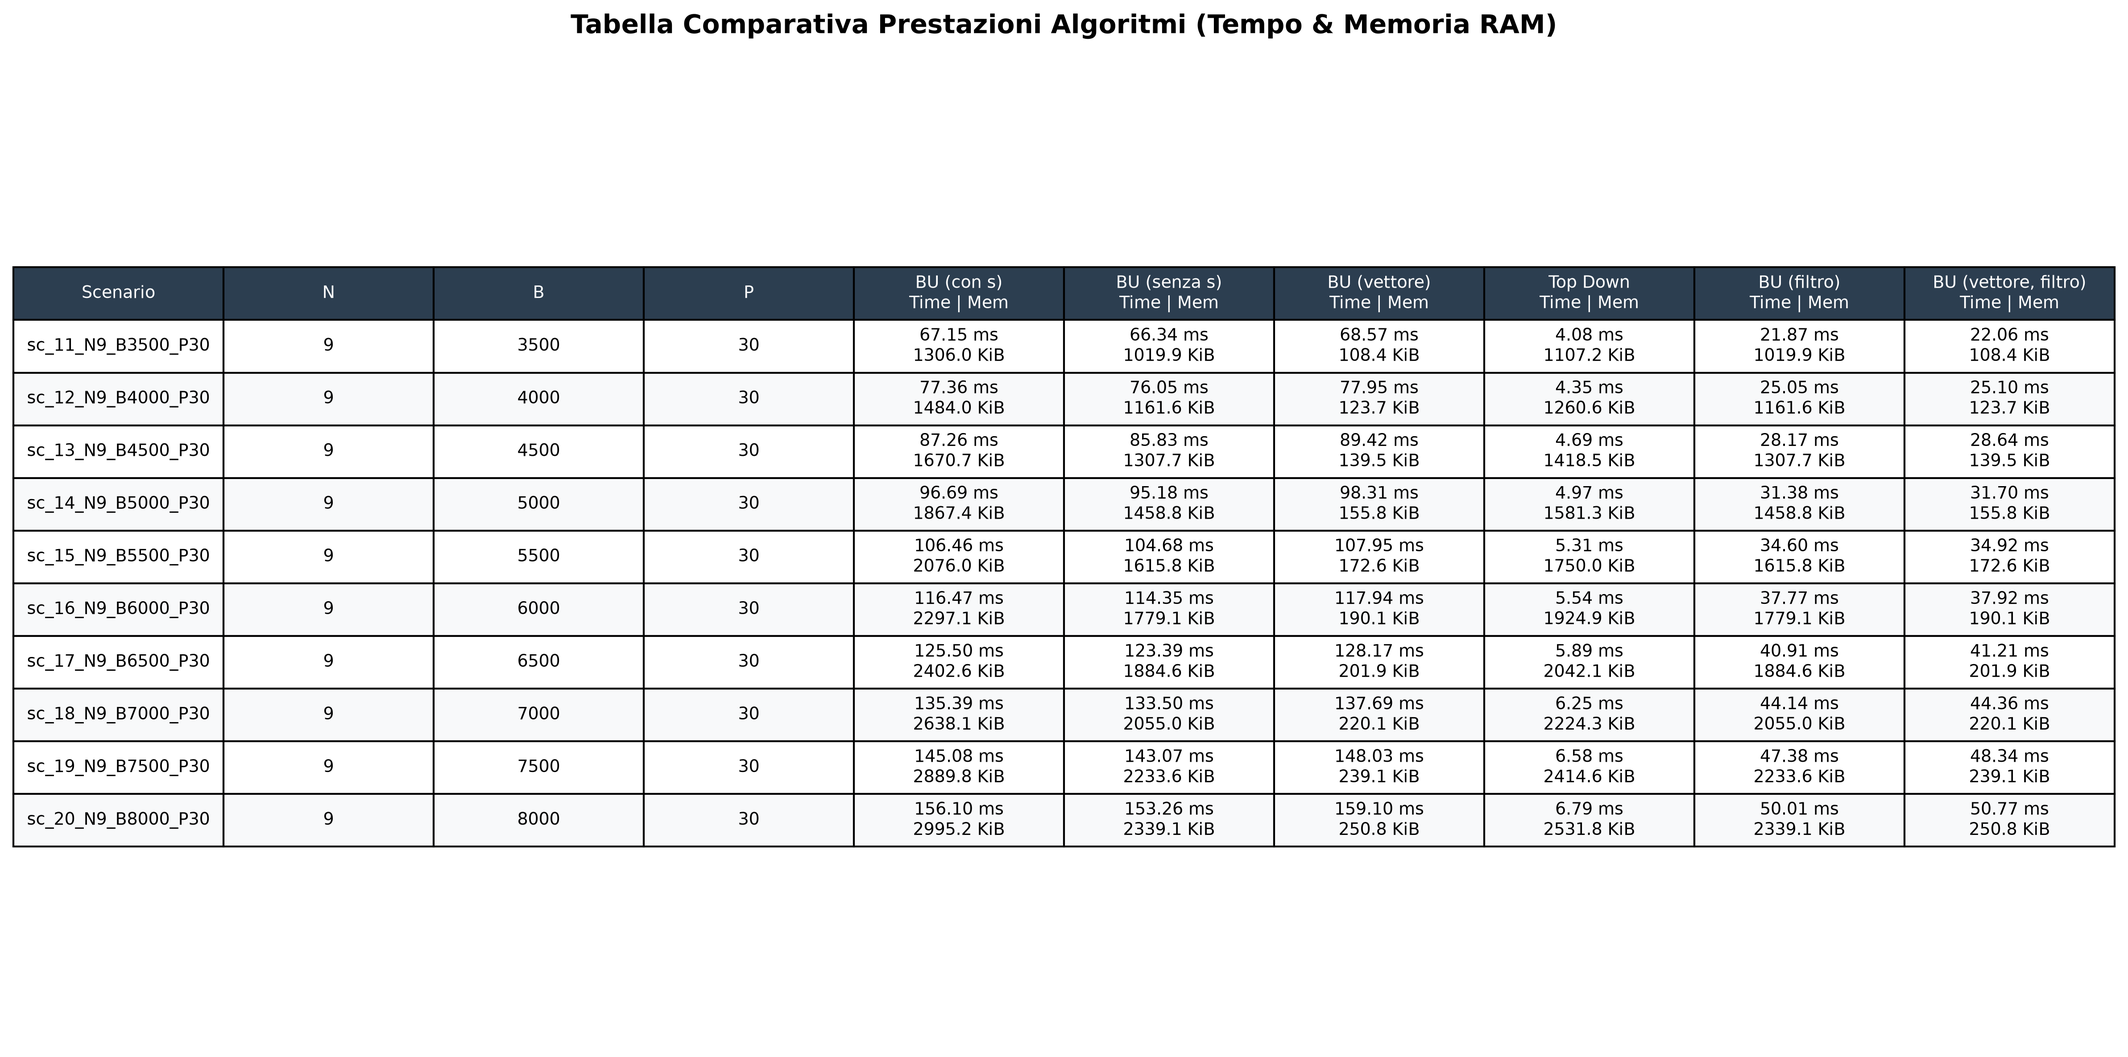
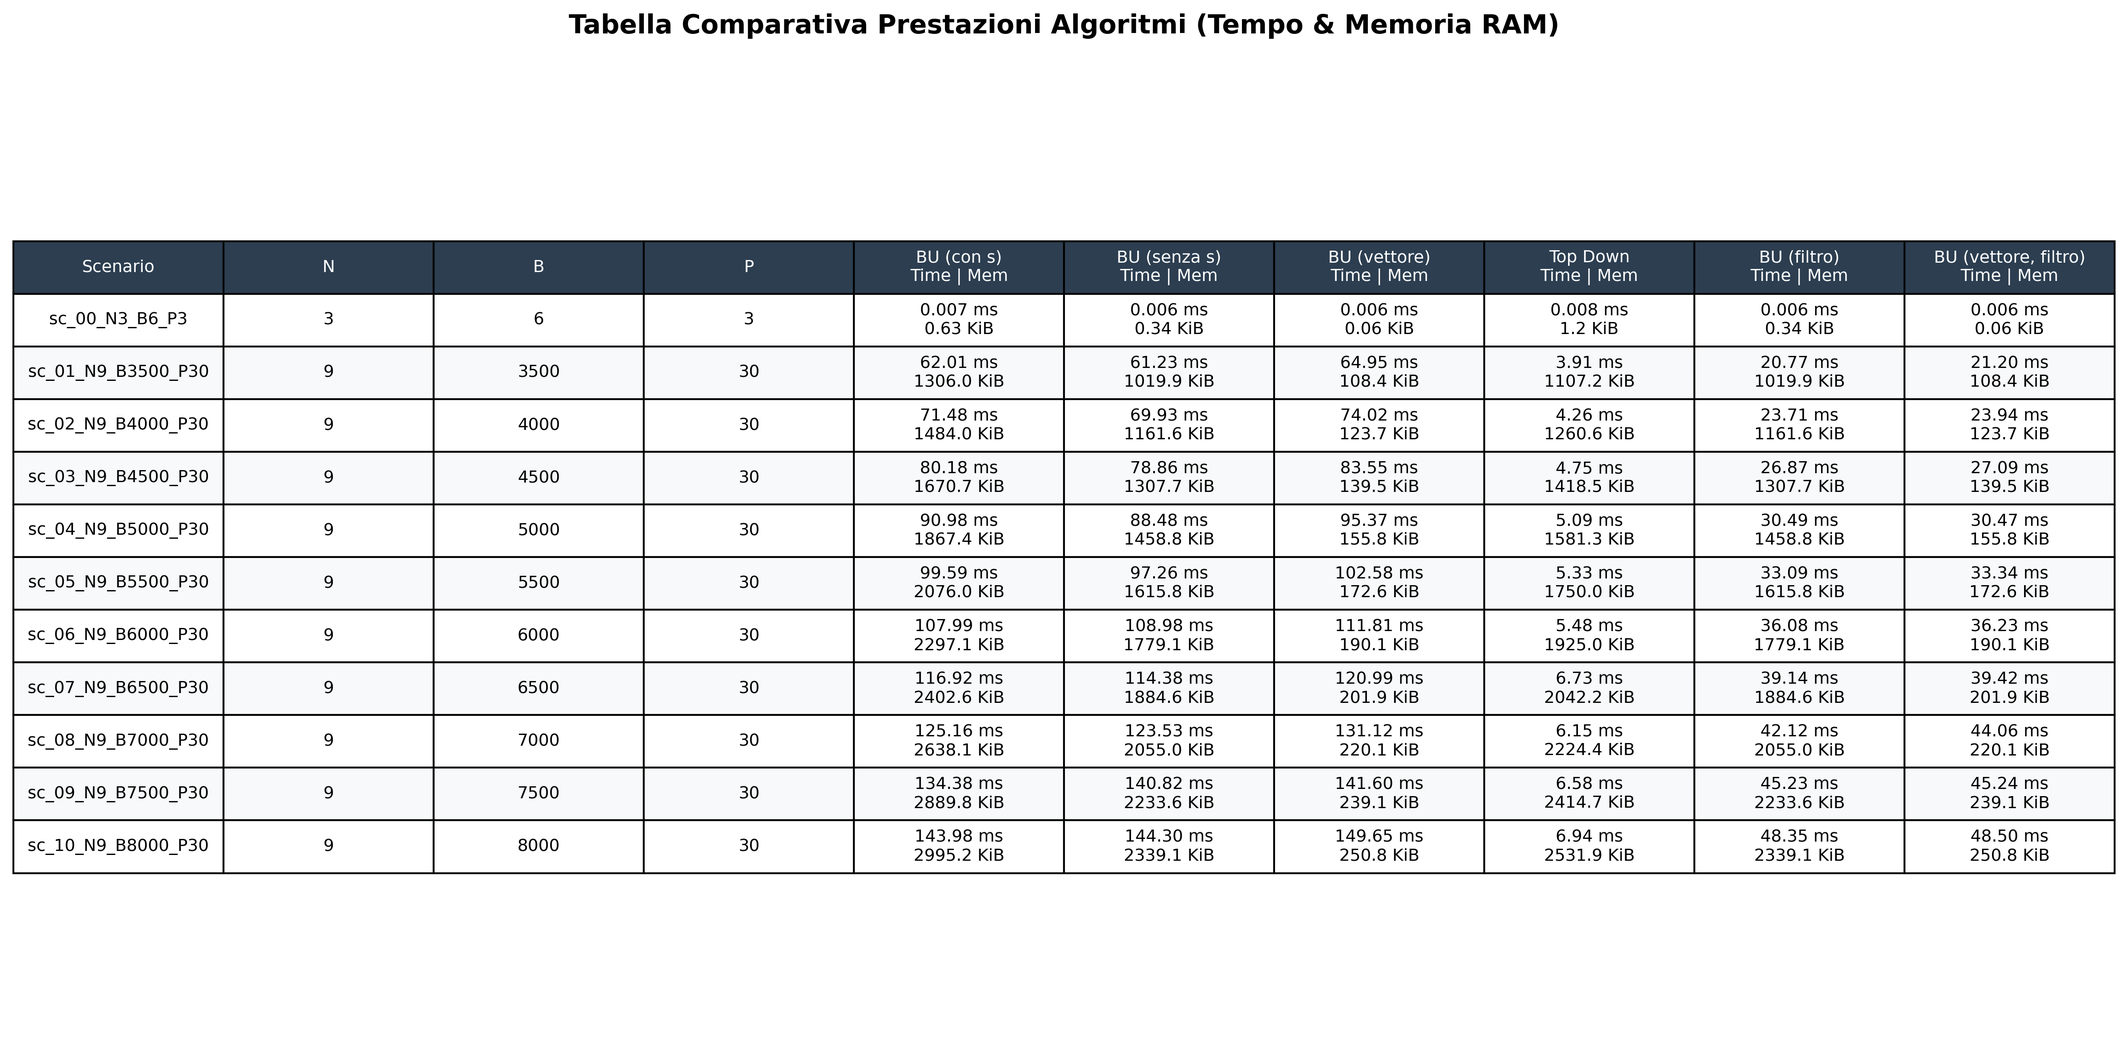
feat(report): allineamento scenari demo, grafici con etichette (a)/(b) e analisi approfondita capitolo 3

Changed region(s): [[0.0, 0.2186, 0.9996, 0.8118], [0.5935, 0.0, 0.7497, 0.0312], [0.2811, 0.0, 0.4061, 0.0312]]

diff --git a/report/sections/03_compito3.tex b/report/sections/03_compito3.tex
@@ -25,9 +25,9 @@ Ciascun atleta $k \in \{1, \dots, P\}$ all'interno del ruolo $i \in \{1, \dots, 
 dove $\mathit{cost}_{i, k} \in \mathbb{N}^+$ rappresenta il compenso contrattuale lordo (con valori compresi tra poche centinaia di migliaia di dollari fino a decine di milioni di dollari), mentre $v_{i, k} = \text{WAR} \ge 0$ rappresenta il contributo marginale del giocatore alle vittorie stagionali attese della squadra rispetto al livello di rimpiazzo.
 
 \subsubsection{Generazione e Parametrizzazione degli Scenari}
-Per analizzare sistematicamente la crescita del tempo di esecuzione e del consumo di memoria primaria, sono stati generati 10 scenari incrementali di test, denominati da \texttt{scenario\_11\_N9\_B3500\_P30} a \texttt{scenario\_20\_N9\_B8000\_P30}.
+Per analizzare sistematicamente la crescita del tempo di esecuzione e del consumo di memoria primaria, sono stati generati 10 scenari incrementali di test, denominati da \texttt{scenario\_01} a \texttt{scenario\_10} (con suffisso \texttt{\_N9\_BXXXX\_P30}). A questi si aggiunge un'istanza minimale di verifica denominata \texttt{scenario\_00\_N3\_B6\_P3} ($N=3$, $B=6$, $P=3$), concepita specificamente per consentire una dimostrazione interattiva e un'ispezione immediata delle matrici prodotte.
 
-Nella progettazione della campagna sperimentale si è scelto di mantenere fisso il numero di atleti disponibili (confermati a $N = 9$ e $P = 30$ per tutte le istanze) e di far variare esclusivamente il budget nominale $X$. Il budget parte da un valore base di $\$350\,000\,000$ nello scenario 11 e cresce con incremento lineare e uniforme di $\$50\,000\,000$ per ciascuno scenario successivo, attestandosi infine a $\$800\,000\,000$ nello scenario 20.
+Nella progettazione della campagna sperimentale principale si è scelto di mantenere fisso il numero di atleti disponibili (confermati a $N = 9$ e $P = 30$ per tutte le istanze) e di far variare esclusivamente il budget nominale $X$. Il budget parte da un valore base di $\$350\,000\,000$ nello scenario 01 e cresce con incremento lineare e uniforme di $\$50\,000\,000$ per ciascuno scenario successivo, attestandosi infine a $\$800\,000\,000$ nello scenario 10.
 
 Di conseguenza, il budget discreto associato varia progressivamente nell'intervallo:
 \begin{equation}
@@ -50,16 +50,16 @@ In Tabella~\ref{tab:scenarios_overview} vengono dettagliati i parametri operativ
 		\toprule
 		\textbf{Identificativo Scenario} & $N$ & $P$ & \textbf{Budget Nominale ($X$)} & $B$ & \textbf{Dimensione ($N \cdot B \cdot P$)} \\
 		\midrule
-		\texttt{scenario\_11\_N9\_B3500\_P30} & 9 & 30 & $\$350\,000\,000$ & 3500 & $945\,000$ \\
-		\texttt{scenario\_12\_N9\_B4000\_P30} & 9 & 30 & $\$400\,000\,000$ & 4000 & $1\,080\,000$ \\
-		\texttt{scenario\_13\_N9\_B4500\_P30} & 9 & 30 & $\$450\,000\,000$ & 4500 & $1\,215\,000$ \\
-		\texttt{scenario\_14\_N9\_B5000\_P30} & 9 & 30 & $\$500\,000\,000$ & 5000 & $1\,350\,000$ \\
-		\texttt{scenario\_15\_N9\_B5500\_P30} & 9 & 30 & $\$550\,000\,000$ & 5500 & $1\,485\,000$ \\
-		\texttt{scenario\_16\_N9\_B6000\_P30} & 9 & 30 & $\$600\,000\,000$ & 6000 & $1\,620\,000$ \\
-		\texttt{scenario\_17\_N9\_B6500\_P30} & 9 & 30 & $\$650\,000\,000$ & 6500 & $1\,755\,000$ \\
-		\texttt{scenario\_18\_N9\_B7000\_P30} & 9 & 30 & $\$700\,000\,000$ & 7000 & $1\,890\,000$ \\
-		\texttt{scenario\_19\_N9\_B7500\_P30} & 9 & 30 & $\$750\,000\,000$ & 7500 & $2\,025\,000$ \\
-		\texttt{scenario\_20\_N9\_B8000\_P30} & 9 & 30 & $\$800\,000\,000$ & 8000 & $2\,160\,000$ \\
+		\texttt{scenario\_01\_N9\_B3500\_P30} & 9 & 30 & $\$350\,000\,000$ & 3500 & $945\,000$ \\
+		\texttt{scenario\_02\_N9\_B4000\_P30} & 9 & 30 & $\$400\,000\,000$ & 4000 & $1\,080\,000$ \\
+		\texttt{scenario\_03\_N9\_B4500\_P30} & 9 & 30 & $\$450\,000\,000$ & 4500 & $1\,215\,000$ \\
+		\texttt{scenario\_04\_N9\_B5000\_P30} & 9 & 30 & $\$500\,000\,000$ & 5000 & $1\,350\,000$ \\
+		\texttt{scenario\_05\_N9\_B5500\_P30} & 9 & 30 & $\$550\,000\,000$ & 5500 & $1\,485\,000$ \\
+		\texttt{scenario\_06\_N9\_B6000\_P30} & 9 & 30 & $\$600\,000\,000$ & 6000 & $1\,620\,000$ \\
+		\texttt{scenario\_07\_N9\_B6500\_P30} & 9 & 30 & $\$650\,000\,000$ & 6500 & $1\,755\,000$ \\
+		\texttt{scenario\_08\_N9\_B7000\_P30} & 9 & 30 & $\$700\,000\,000$ & 7000 & $1\,890\,000$ \\
+		\texttt{scenario\_09\_N9\_B7500\_P30} & 9 & 30 & $\$750\,000\,000$ & 7500 & $2\,025\,000$ \\
+		\texttt{scenario\_10\_N9\_B8000\_P30} & 9 & 30 & $\$800\,000\,000$ & 8000 & $2\,160\,000$ \\
 		\bottomrule
 	\end{tabular}
 \end{table}
@@ -221,3 +221,118 @@ def filter_players(players, cost_unit=100000, total_budget=None):
 \end{lstlisting}
 
 Il costo computazionale preliminare è $O(N \cdot P \log P)$, trascurabile rispetto all'esecuzione della programmazione dinamica. L'effetto è quello di ridurre il numero effettivo di candidati da $P$ a un sottoinsieme $P' \ll P$, velocizzando proporzionalmente il ciclo interno di tutte le varianti bottom-up che non necessitano della corrispondenza biunivoca degli indici nella matrice $s$.
+
+\subsection{Confronto delle Prestazioni e Risultati Empirici}
+La sperimentazione è stata condotta eseguendo le sei varianti algoritmiche sui 10 scenari a budget crescente ($B \in [3500, 8000]$), misurando per ciascuna configurazione il tempo minimo di calcolo su $K = 15$ iterazioni e il picco di memoria heap tracciato.
+
+\subsubsection{Tempi di Calcolo}
+I tempi di calcolo misurati per ciascun algoritmo sui 10 scenari sono riassunti nella Tabella~\ref{tab:execution_times} e visualizzati graficamente nella Figura~\ref{fig:optimal_value_plots}(a).
+
+\begin{table}[!htbp]
+	\centering
+	\footnotesize
+	\setlength{\tabcolsep}{4.5pt}
+	\caption{Tempi di esecuzione (in millisecondi, ms) degli algoritmi sui 10 scenari di test.}
+	\label{tab:execution_times}
+	\begin{tabular}{lccccccc}
+		\toprule
+		\textbf{Scenario} & $B$ & \textbf{BU (con $s$)} & \textbf{BU (senza $s$)} & \textbf{BU (vett.)} & \textbf{Top-Down} & \textbf{BU (filtr.)} & \textbf{BU (vett.+filtr.)} \\
+		\midrule
+		\texttt{sc\_01} & 3500 & 62.01 & 61.23 & 64.95 & 3.91 & 20.77 & 21.20 \\
+		\texttt{sc\_02} & 4000 & 71.48 & 69.93 & 74.02 & 4.26 & 23.71 & 23.94 \\
+		\texttt{sc\_03} & 4500 & 80.18 & 78.86 & 83.55 & 4.75 & 26.87 & 27.09 \\
+		\texttt{sc\_04} & 5000 & 90.98 & 88.48 & 95.37 & 5.09 & 30.49 & 30.47 \\
+		\texttt{sc\_05} & 5500 & 99.59 & 97.26 & 102.58 & 5.33 & 33.09 & 33.34 \\
+		\texttt{sc\_06} & 6000 & 107.99 & 108.98 & 111.81 & 5.48 & 36.08 & 36.23 \\
+		\texttt{sc\_07} & 6500 & 116.92 & 114.38 & 120.99 & 6.73 & 39.14 & 39.42 \\
+		\texttt{sc\_08} & 7000 & 125.16 & 123.53 & 131.12 & 6.15 & 42.12 & 44.06 \\
+		\texttt{sc\_09} & 7500 & 134.38 & 140.82 & 141.60 & 6.58 & 45.23 & 45.24 \\
+		\texttt{sc\_10} & 8000 & 143.98 & 144.30 & 149.65 & 6.94 & 48.35 & 48.50 \\
+		\bottomrule
+	\end{tabular}
+\end{table}
+
+\begin{figure}[!htbp]
+	\centering
+	\includegraphics[width=\textwidth]{plot_optimal_value.png}
+	\caption{Confronto delle prestazioni degli algoritmi: (a) tempo di calcolo rispetto alla dimensione dell'istanza ($N \cdot B \cdot P$); (b) picco di memoria rispetto alla dimensione della tabella ($N \cdot B$).}
+	\label{fig:optimal_value_plots}
+\end{figure}
+
+All'aumentare del budget discreto $B$, i tempi di esecuzione del Bottom-Up canonico e delle sue varianti principali mostrano una crescita chiaramente lineare. Poiché il numero di ruoli $N = 9$ e il numero di candidati $P = 30$ sono mantenuti costanti in tutti gli scenari, la dimensione complessiva dell'istanza scala in modo direttamente proporzionale a $B$. Ad esempio, passando dallo scenario 01 ($B = 3500$) allo scenario 10 ($B = 8000$), il budget aumenta di circa $2.29$ volte e il tempo del Bottom-Up su matrice passa da $61.23\text{ ms}$ a $144.30\text{ ms}$ (un incremento di $2.36$ volte), confermando con precisione la complessità teorica $\Theta(N \cdot B \cdot P)$.
+
+Un aspetto centrale riguarda il confronto tra il Bottom-Up su matrice e la variante salvaspazio a vettore singolo 1D. Sebbene quest'ultima operi su una sola riga anziché sull'intera tabella, il numero totale di controlli e di aggiornamenti interni rimane esattamente lo stesso. Per verificare sperimentalmente questa equivalenza è stata calcolata la discrepanza percentuale:
+\begin{equation}
+	\Delta_{\text{time}}\% = \frac{T_{\text{vettore}} - T_{\text{matrice}}}{T_{\text{matrice}}} \times 100
+\end{equation}
+Su tutti i 10 scenari analizzati, la differenza media tra i tempi delle due versioni è di appena il $+4.99\%$ (variando tra un minimo dello $0.55\%$ nello scenario 09 e un massimo del $7.79\%$ nello scenario 04). Applicando il pre-filtraggio di Pareto a entrambi gli algoritmi, la differenza media scende ulteriormente all'$1.06\%$. Questo scarto minimo, nell'ordine di pochi millisecondi, è dovuto unicamente al leggero costo del controllo condizionale nel ciclo decrescente del vettore rispetto alla copia di riga nativa tramite slicing (\texttt{m[i][:] = m[i-1][:]}) di Python. I dati confermano quindi che la variante a vettore singolo non altera la complessità temporale.
+
+L'applicazione del filtro di Pareto permette invece di ridurre notevolmente i tempi di calcolo. Eliminando a priori i candidati dominati all'interno di ciascun ruolo, il numero effettivo di giocatori da valutare scende in media da $P = 30$ a circa $P' \approx 10$. Di conseguenza, il tempo di esecuzione si riduce di circa il $66\%$ su tutti gli scenari, passando da $61.23\text{ ms}$ a $20.77\text{ ms}$ nello scenario 01 e da $144.30\text{ ms}$ a $48.35\text{ ms}$ nello scenario 10.
+
+L'algoritmo Top-Down ricorsivo con memoizzazione risulta il più rapido nei test, con tempi compresi tra $3.91\text{ ms}$ e $6.94\text{ ms}$. Questo comportamento è dovuto alla natura discreta dei costi dei contratti: scendendo a ritroso a partire dallo stato finale $(N, B)$, gran parte delle celle $(i, b)$ della matrice non viene mai raggiunta da combinazioni valide di acquisti. L'approccio ricorsivo valuta solo gli stati strettamente necessari per risolvere il problema, evitando di calcolare l'intera griglia come fa invece il Bottom-Up.
+
+\subsubsection{Occupazione di Memoria}
+I valori di picco di memoria heap campionati tramite \texttt{tracemalloc} sono riportati nella Tabella~\ref{tab:memory_consumption} e mostrati graficamente nella Figura~\ref{fig:optimal_value_plots}(b).
+
+\begin{table}[!htbp]
+	\centering
+	\small
+	\caption{Picco di memoria heap allocata (in KiB) per gli algoritmi di calcolo del valore ottimo.}
+	\label{tab:memory_consumption}
+	\begin{tabular}{lccccc}
+		\toprule
+		\textbf{Scenario} & $B$ & \textbf{BU (con $s$)} & \textbf{BU (senza $s$)} & \textbf{BU (vettore 1D)} & \textbf{Top-Down} \\
+		\midrule
+		\texttt{sc\_01} & 3500 & 1306.0 & 1019.9 & 108.4 & 1107.2 \\
+		\texttt{sc\_02} & 4000 & 1484.0 & 1161.6 & 123.7 & 1260.6 \\
+		\texttt{sc\_03} & 4500 & 1670.7 & 1307.7 & 139.5 & 1418.5 \\
+		\texttt{sc\_04} & 5000 & 1867.4 & 1458.8 & 155.8 & 1581.3 \\
+		\texttt{sc\_05} & 5500 & 2076.0 & 1615.8 & 172.6 & 1750.0 \\
+		\texttt{sc\_06} & 6000 & 2297.1 & 1779.1 & 190.1 & 1925.0 \\
+		\texttt{sc\_07} & 6500 & 2402.6 & 1884.6 & 201.9 & 2042.2 \\
+		\texttt{sc\_08} & 7000 & 2638.1 & 2055.0 & 220.1 & 2224.4 \\
+		\texttt{sc\_09} & 7500 & 2889.8 & 2233.6 & 239.1 & 2414.7 \\
+		\texttt{sc\_10} & 8000 & 2995.2 & 2339.1 & 250.8 & 2531.9 \\
+		\bottomrule
+	\end{tabular}
+\end{table}
+
+Il risultato più evidente è il forte calo di memoria ottenuto con la variante a vettore singolo 1D. Ci si potrebbe chiedere come mai, pur mantenendo in memoria un intero vettore di dimensione $B+1$ (oltre 8000 elementi nello scenario 10), l'uso della memoria scenda di quasi il $90\%$. La ragione sta nel fatto che la matrice dinamica classica alloca $N+1$ liste distinte: nel nostro caso, con $N = 9$ ruoli difensivi, vengono create 10 liste indipendenti, per un totale di $10 \cdot (B + 1)$ elementi. Il vettore singolo, invece, alloca una sola lista di dimensione $B + 1$. Il rapporto dimensionale teorico è quindi:
+\begin{equation}
+	\frac{1 \cdot (B + 1)}{(N + 1) \cdot (B + 1)} = \frac{1}{N + 1} = \frac{1}{10} = 10\%
+\end{equation}
+L'occupazione di memoria attesa scende al $10\%$ del totale, corrispondendo esattamente a una riduzione del $90\%$. Le misure empiriche confermano in pieno questo andamento, registrando un risparmio medio costante dell'$89.32\%$ rispetto alla matrice $m$ (e di oltre il $91.6\%$ rispetto alla versione con entrambe le matrici $m$ ed $s$). L'ottimizzazione a vettore singolo funziona quindi perché elimina del tutto il moltiplicatore legato al numero di ruoli $N$, portando la complessità spaziale da $\Theta(N \cdot B)$ a $\Theta(B)$.
+
+Per quanto riguarda il Top-Down, la memoria occupata ($1107.2\text{ KiB}$ nello scenario 01 e $2531.9\text{ KiB}$ nello scenario 10) è molto vicina a quella del Bottom-Up senza matrice $s$. Per comprendere questo dato è utile distinguere tra la memoria allocata sull'heap e quella utilizzata sullo stack delle chiamate:
+\begin{itemize}
+	\item \textbf{Memoria heap:} per memorizzare i risultati dei sottoproblemi, l'algoritmo crea all'avvio l'intera tabella \texttt{memo} di $(N+1) \times (B+1)$ elementi con valori sentinella negativi. Poiché \texttt{tracemalloc} misura il picco di memoria fisica allocata sull'heap, l'ingombro risulta pari a quello di una matrice completa $\Theta(N \cdot B)$, anche se molte celle non vengono mai calcolate durante l'esplorazione.
+	\item \textbf{Stack di ricorsione:} ogni chiamata di funzione aggiunge un record di attivazione sullo stack di Python. Tuttavia, poiché a ogni passo si passa al ruolo precedente ($i \to i-1$), la profondità massima della ricorsione è limitata a $N = 9$ chiamate annidate. Lo spazio occupato dallo stack è quindi limitato a $O(N)$ record di attivazione, una quantità del tutto trascurabile rispetto alle migliaia di elementi presenti nella tabella sull'heap.
+\end{itemize}
+
+\subsubsection{Ricostruzione della Rosa e Verifica delle Uscite}
+Per verificare la correttezza dei risultati e documentare il calcolo effettivo delle uscite, è stata analizzata la rosa ottima prodotta dai metodi di ricostruzione. Su tutti i 10 scenari analizzati, la ricostruzione basata sulla matrice decisionale $s$ e quella eseguita direttamente sulla matrice dei valori $m$ identificano esattamente la stessa combinazione di giocatori, confermando la piena correttezza della risalita senza matrice ausiliaria e attestando il valore ottimo sempre a $63.0$ WAR con la copertura di tutti i 9 ruoli previsti.
+
+\begin{figure}[!htbp]
+	\centering
+	\includegraphics[width=0.72\textwidth]{plot_reconstruction_memory.png}
+	\caption{Confronto dell'occupazione di memoria heap tra la strategia con matrice delle decisioni $s$ (risalita $\Theta(N)$) e la strategia con sola matrice $m$ (risalita $O(N \cdot P)$).}
+	\label{fig:reconstruction_memory_plot}
+\end{figure}
+
+Come illustrato nella Figura~\ref{fig:reconstruction_memory_plot}, la scelta del metodo di ricostruzione comporta un chiaro compromesso tra tempo di risalita e memoria occupata durante la fase tabellare:
+\begin{itemize}
+	\item \textbf{Ricostruzione con matrice $s$:} consente di estrarre la formazione titolare in tempo $\Theta(N)$, ma richiede di mantenere in memoria entrambe le matrici $m$ ed $s$ durante tutto il calcolo dinamico, raggiungendo un picco di quasi $3.0\text{ MB}$ nello scenario 10.
+	\item \textbf{Ricostruzione senza matrice $s$:} ricostruisce la soluzione a ritroso controllando direttamente la matrice $m$ in tempo $O(N \cdot P)$. Poiché $N = 9$ e $P = 30$, l'operazione compie al massimo 270 controlli elementari (eseguiti in frazioni trascurabili di millisecondo), permettendo di risparmiare oltre $650\text{ KiB}$ di memoria RAM durante il calcolo dinamico.
+\end{itemize}
+La variante a vettore singolo 1D, infine, pur offrendo la massima efficienza in termini di memoria ($\Theta(B)$), non conserva le informazioni necessarie per risalire alle decisioni prese, rendendo impossibile ricostruire la composizione della rosa e limitandosi al calcolo del solo valore massimo di WAR.
+
+\subsection{Limitazioni Riscontrate}
+Dall'analisi teorica e dalle prove sperimentali emergono alcune limitazioni pratiche del modello e degli algoritmi implementati.
+
+In primo luogo, la complessità degli algoritmi è pseudo-polinomiale e dipende dal valore del budget discretizzato $B = \lfloor X / \text{COST\_UNIT} \rfloor$. Con la costante di discretizzazione $\text{COST\_UNIT} = 100\,000$, il valore di $B$ rimane contenuto nell'ordine delle migliaia, consentendo tempi di esecuzione dell'ordine dei decimi di secondo. Se tuttavia si adottasse una granularità molto più fine (ad esempio al singolo dollaro per gestire compensi precisi al centesimo), $B$ crescerebbe di cinque ordini di grandezza, rendendo la griglia dinamica intrattabile sia per il tempo di calcolo sia per la memoria necessaria.
+
+In secondo luogo, la variante salvaspazio a vettore singolo comporta la perdita della traccia delle scelte ottime: sovrascrivendo l'unico vettore riga dopo riga, alla fine del calcolo non è più possibile risalire a quali giocatori siano stati ingaggiati. Questa variante è quindi utile solo nei casi in cui interessi conoscere unicamente il rendimento massimo raggiungibile con un dato budget.
+
+Per quanto riguarda il filtro di Pareto, la sua efficacia dipende dalla distribuzione reale dei costi e dei rendimenti degli atleti. Nel nostro dataset molti giocatori risultano dominati, permettendo di ridurre $P$ da 30 a circa 10 candidati per ruolo. In uno scenario in cui tutti i giocatori offrissero un WAR strettamente crescente al crescere del prezzo (nessun giocatore dominato), il filtro non eliminerebbe alcun candidato e introdurrebbe solo il costo dell'ordinamento iniziale $O(N \cdot P \log P)$.
+
+Infine, l'approccio Top-Down ricorsivo, pur essendo molto veloce su questo tipo di dati grazie alla sparsità degli stati raggiungibili, risente del limite massimo di ricorsione imposto dall'interprete Python (\texttt{sys.getrecursionlimit()}). Sebbene con $N = 9$ ruoli la ricorsione sia profonda solo 9 livelli, un problema analogo con centinaia o migliaia di categorie porterebbe a un errore di stack overflow, rendendo necessaria una formulazione iterativa.

diff --git a/report/sections/01_compito1.tex b/report/sections/01_compito1.tex
@@ -1,4 +1,4 @@
-\section{Compito 1: Modellazione e Algoritmi Fondamentali}
+\section{Modellazione e Algoritmi Fondamentali}
 
 \subsection{Descrizione del Problema e Formulazione Matematica}
 Per questo elaborato è stato scelto il problema dell'ingaggio dei giocatori svincolati (\textit{Signing Free-Agent Baseball Players}). Trae la propria formulazione canonica dal Problema~14-12 del testo di Cormen et al.~\cite{clrs}. Nel dominio dell'ottimizzazione combinatoria, si configura come un'istanza del \textit{Multiple-Choice Knapsack Problem} (MCKP)~\cite{kellerer2004knapsack}, variante del classico problema dello zaino in cui l'insieme degli oggetti selezionabili è partizionato in classi disgiunte e mutualmente esclusive. Lo scenario decisionale modella l'obiettivo della dirigenza di una squadra sportiva che, a fronte di un budget finanziario prefissato, mira a massimizzare la competitività globale della formazione titolare ingaggiando atleti sul mercato degli \textit{svincolati}, nel rispetto del vincolo di copertura dei ruoli e del tetto massimo di budget spendibile.

diff --git a/src/benchmark/plotter.py b/src/benchmark/plotter.py
@@ -67,7 +67,7 @@ class PerformancePlotter:
             ax_mem.set_yscale("log")
 
         scale_text = " (Scala Log-Log)" if self.log_optimal_val else ""
-        ax_time.set_title(f"Tempo di Calcolo Valore Ottimo{scale_text}")
+        ax_time.set_title(f"(a) Tempo di Calcolo Valore Ottimo{scale_text}")
         ax_time.set_xlabel("Dimensione Istanza (N * B * P)")
         ax_time.set_ylabel("Tempo (ms)")
         ax_time.grid(
@@ -78,7 +78,7 @@ class PerformancePlotter:
         )
         ax_time.legend()
 
-        ax_mem.set_title(f"Occupazione Memoria RAM{scale_text}")
+        ax_mem.set_title(f"(b) Occupazione Memoria RAM{scale_text}")
         ax_mem.set_xlabel("Dimensione Tabella (N * B)")
         ax_mem.set_ylabel("Picco Memoria (KiB)")
         ax_mem.grid(
